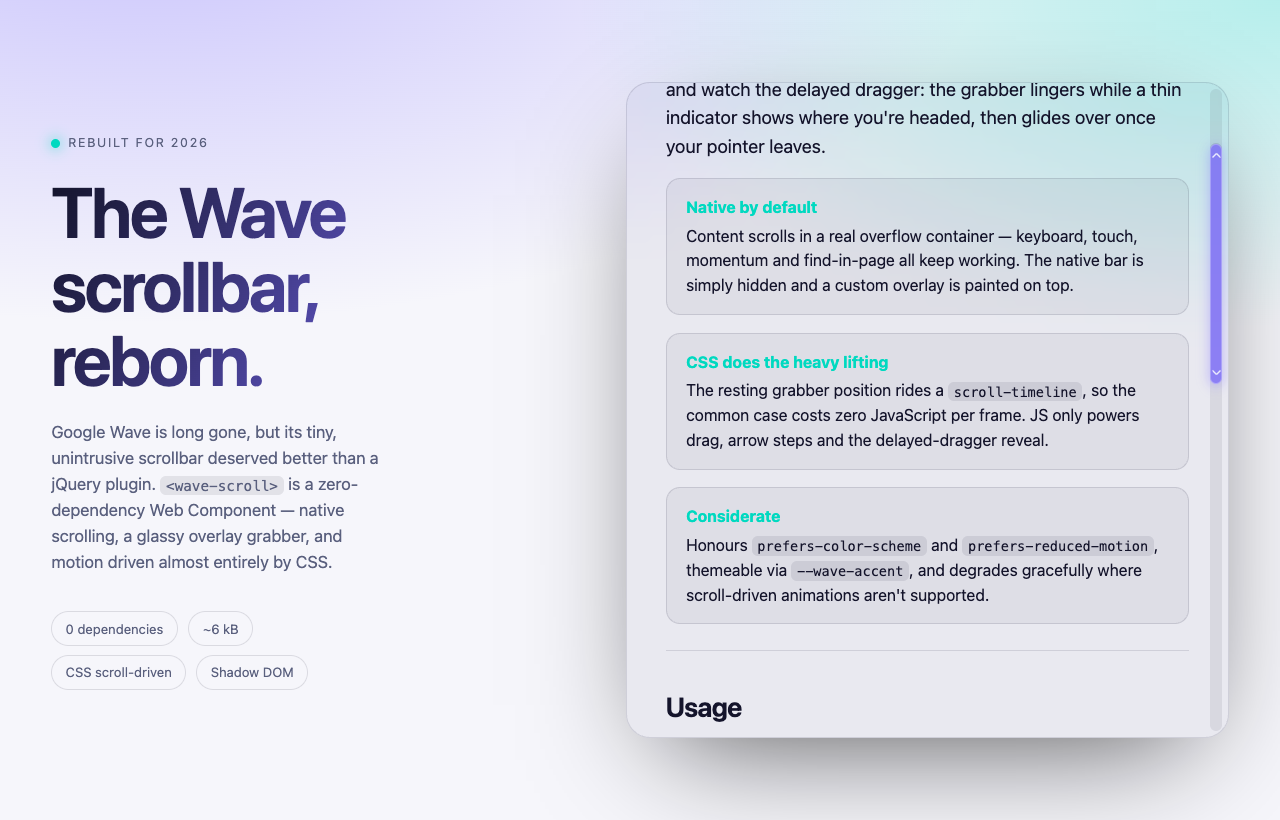
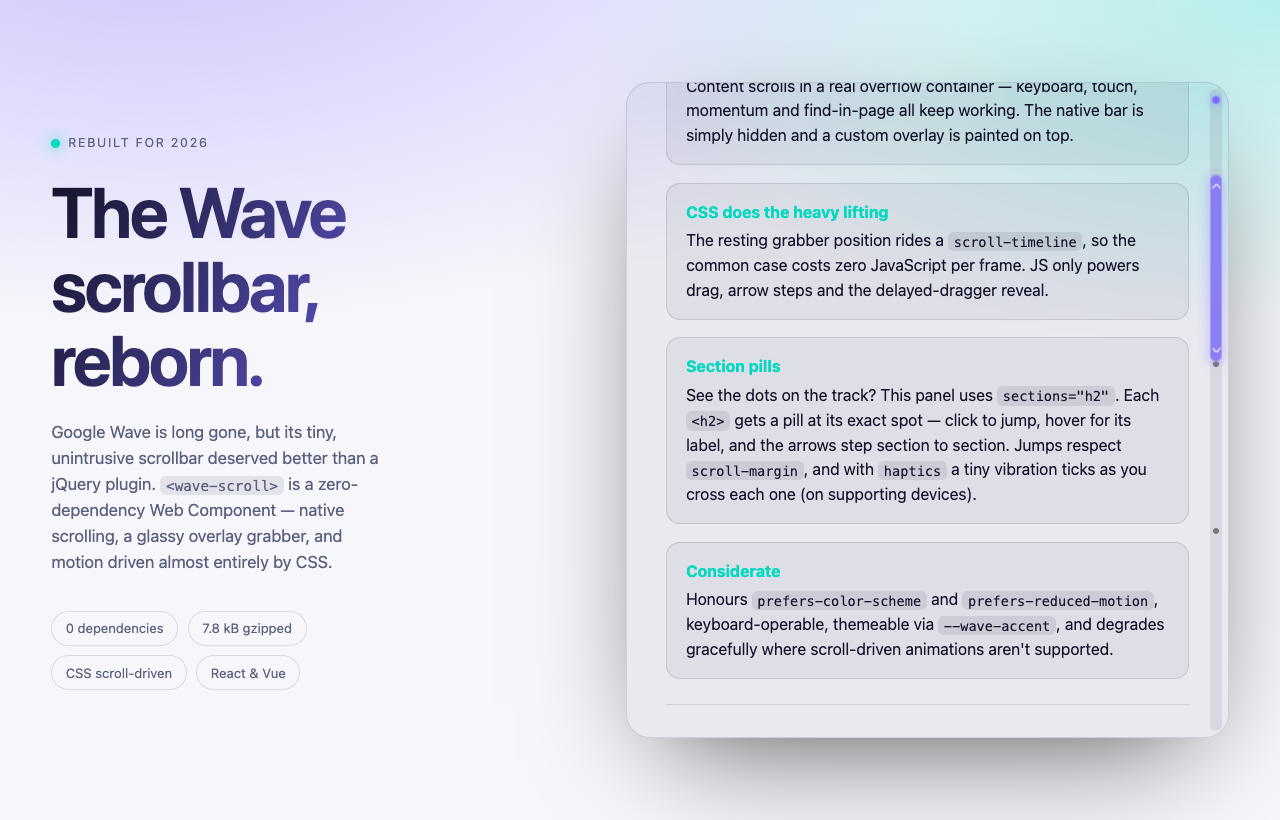
Update README & demo for current features and real sizes
- correct size claims: core is 24.6 kB raw / 7.8 kB gzipped (was '~6 kB');
  add a Size section + badge and a sizes table
- document section pills, section-stepping arrows, scroll-margin, and the
  new haptics attribute across Highlights, the demo copy, and meta chips
- refresh docs/screenshot.png to show the pills on the track

diff --git a/index.html b/index.html
@@ -182,9 +182,9 @@
       </p>
       <div class="meta">
         <span>0 dependencies</span>
-        <span>~6&nbsp;kB</span>
+        <span>7.8&nbsp;kB gzipped</span>
         <span>CSS scroll-driven</span>
-        <span>Shadow DOM</span>
+        <span>React &amp; Vue</span>
       </div>
     </section>
 
@@ -195,9 +195,9 @@
           <p class="lead">
             Scroll with your wheel or trackpad and the grabber tracks you on the
             compositor. <b>Drag</b> the grabber to scrub. <b>Click the arrows</b>
-            and watch the delayed dragger: the grabber lingers while a thin
-            indicator shows where you're headed, then glides over once your
-            pointer leaves.
+            to step between sections and watch the delayed dragger: the grabber
+            lingers while a thin indicator shows where you're headed, then glides
+            over once your pointer leaves.
           </p>
 
           <div class="feature">
@@ -214,9 +214,18 @@
             delayed-dragger reveal.</span>
           </div>
           <div class="feature">
+            <b>Section pills</b>
+            <span>See the dots on the track? This panel uses
+            <code>sections="h2"</code>. Each <code>&lt;h2&gt;</code> gets a pill at
+            its exact spot — click to jump, hover for its label, and the arrows
+            step section to section. Jumps respect <code>scroll-margin</code>, and
+            with <code>haptics</code> a tiny vibration ticks as you cross each one
+            (on supporting devices).</span>
+          </div>
+          <div class="feature">
             <b>Considerate</b>
             <span>Honours <code>prefers-color-scheme</code> and
-            <code>prefers-reduced-motion</code>, themeable via
+            <code>prefers-reduced-motion</code>, keyboard-operable, themeable via
             <code>--wave-accent</code>, and degrades gracefully where scroll-driven
             animations aren't supported.</span>
           </div>
@@ -228,8 +237,9 @@
           <p><code>&lt;wave-scroll accent="#7c6cff"&gt; … &lt;/wave-scroll&gt;</code></p>
           <p>
             Optional attributes: <code>auto-hide</code> reveals the bar only on
-            interaction, and <code>no-arrows</code> drops the step buttons for a
-            cleaner minimal bar.
+            interaction, <code>no-arrows</code> drops the step buttons,
+            <code>sections="h2"</code> adds the jump pills, and
+            <code>haptics</code> ticks as you cross sections.
           </p>
 
           <div class="example">

diff --git a/README.md b/README.md
@@ -10,6 +10,7 @@ entirely by CSS.
 
 [![Web Component](https://img.shields.io/badge/web-component-7c6cff?style=flat-square)](https://developer.mozilla.org/docs/Web/API/Web_components)
 [![Zero dependencies](https://img.shields.io/badge/dependencies-0-00d9c0?style=flat-square)](#)
+[![Size](https://img.shields.io/badge/core-7.8_kB_gzip-00d9c0?style=flat-square)](#-size)
 [![ES Module](https://img.shields.io/badge/ESM-native-f4f4ff?style=flat-square&labelColor=14142b)](#)
 [![React & Vue](https://img.shields.io/badge/React%20%26%20Vue-ready-42b883?style=flat-square&labelColor=61dafb)](#-react)
 [![TypeScript](https://img.shields.io/badge/types-included-3178c6?style=flat-square)](#)
@@ -49,8 +50,9 @@ no jQuery, no jQuery UI, no sprite PNGs.
 |---|---|
 | 🪶 **Native by default** | Content scrolls in a real overflow container — keyboard, touch, momentum, and find-in-page all keep working. The native bar is hidden; a custom overlay is painted on top. |
 | 🎞 **CSS-first motion** | The resting grabber position rides a CSS `scroll-timeline`, so wheel / trackpad / keyboard scrolling costs **zero JavaScript per frame**. |
-| 〰 **Faithful behavior** | JS powers only the three Wave signatures: drag-to-scrub, arrow step-scroll, and the *delayed dragger* (the grabber lingers while a thin indicator shows where you're heading, then glides over once the pointer leaves). |
-| 🌗 **Considerate** | Honours `prefers-color-scheme` and `prefers-reduced-motion`, encapsulated in Shadow DOM, themeable, and degrades gracefully where scroll-driven animations aren't supported. |
+| 〰 **Faithful behavior** | JS powers only the Wave signatures: drag-to-scrub, arrow step-scroll, and the *delayed dragger* (the grabber lingers while a thin indicator shows where you're heading, then glides over once the pointer leaves). |
+| 📍 **Section pills** | Opt in with `sections` to scatter clickable jump-to-section dots along the track; the arrows then step section to section, jumps respect `scroll-margin`, and `haptics` adds a vibration tick on crossings. |
+| 🌗 **Considerate** | Honours `prefers-color-scheme` and `prefers-reduced-motion`, keyboard-operable, encapsulated in Shadow DOM, themeable, and degrades gracefully where scroll-driven animations aren't supported. |
 
 ---
 
@@ -242,6 +244,20 @@ The grabber's `translateY` is keyed to a CSS `scroll-timeline`, so the browser
 moves it on the compositor as you scroll — no per-frame JavaScript. JS steps in
 only for drag, arrow clicks, and the delayed-dragger reveal, then hands control
 straight back to the timeline with no visual snap.
+
+---
+
+## ✦ Size
+
+The whole thing is one dependency-free file — no runtime, no build needed.
+
+| File | Raw | Gzipped |
+|------|-----|---------|
+| `wave-scroll.js` (everything: element + styles) | 24.6 kB | **7.8 kB** |
+
+The React (`react.js`) and Vue (`vue.js`) wrappers are ~1 kB each and pull in no
+extra dependencies — they re-export the same core element. The published npm
+tarball is ~13 kB and includes the wrappers and TypeScript types.
 
 ---
 
